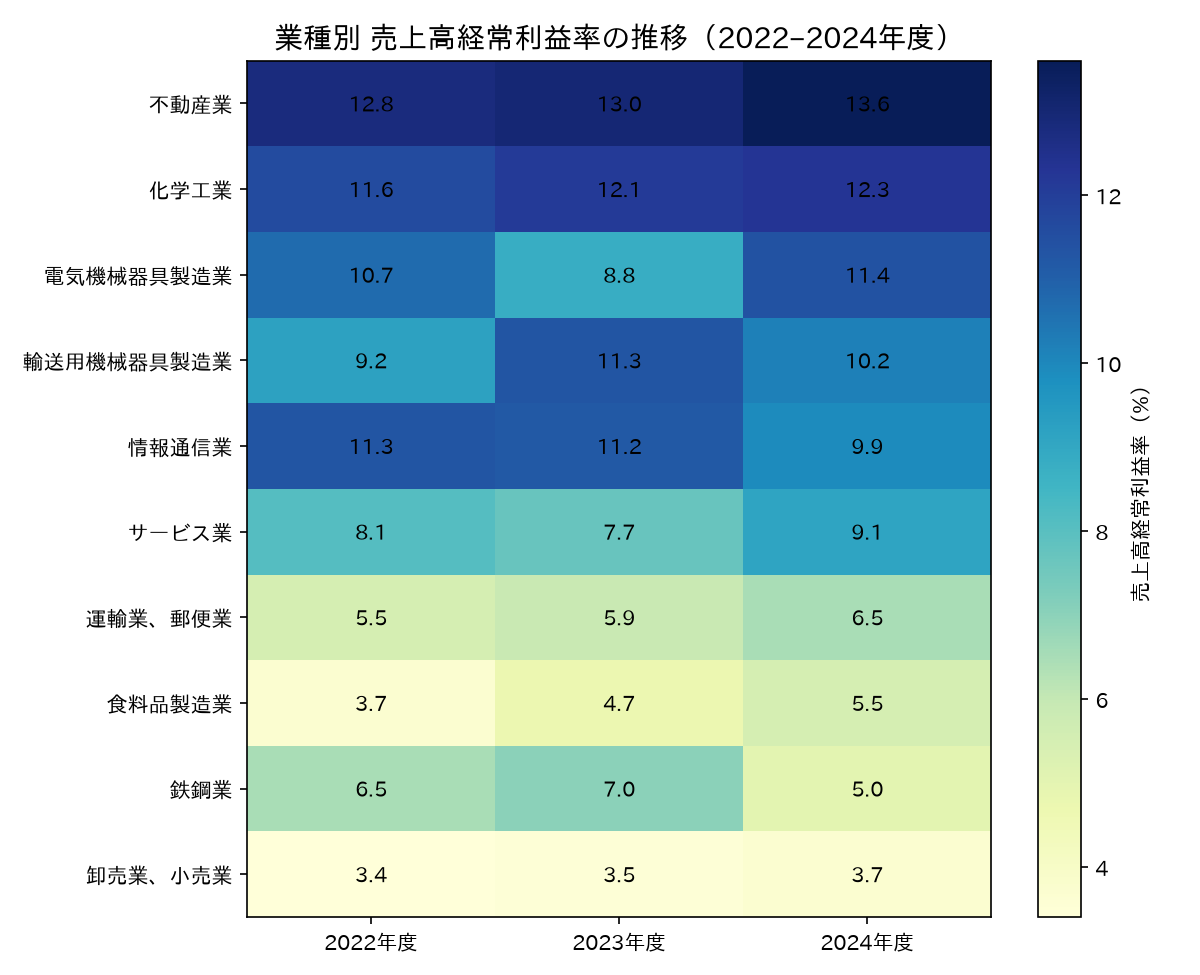
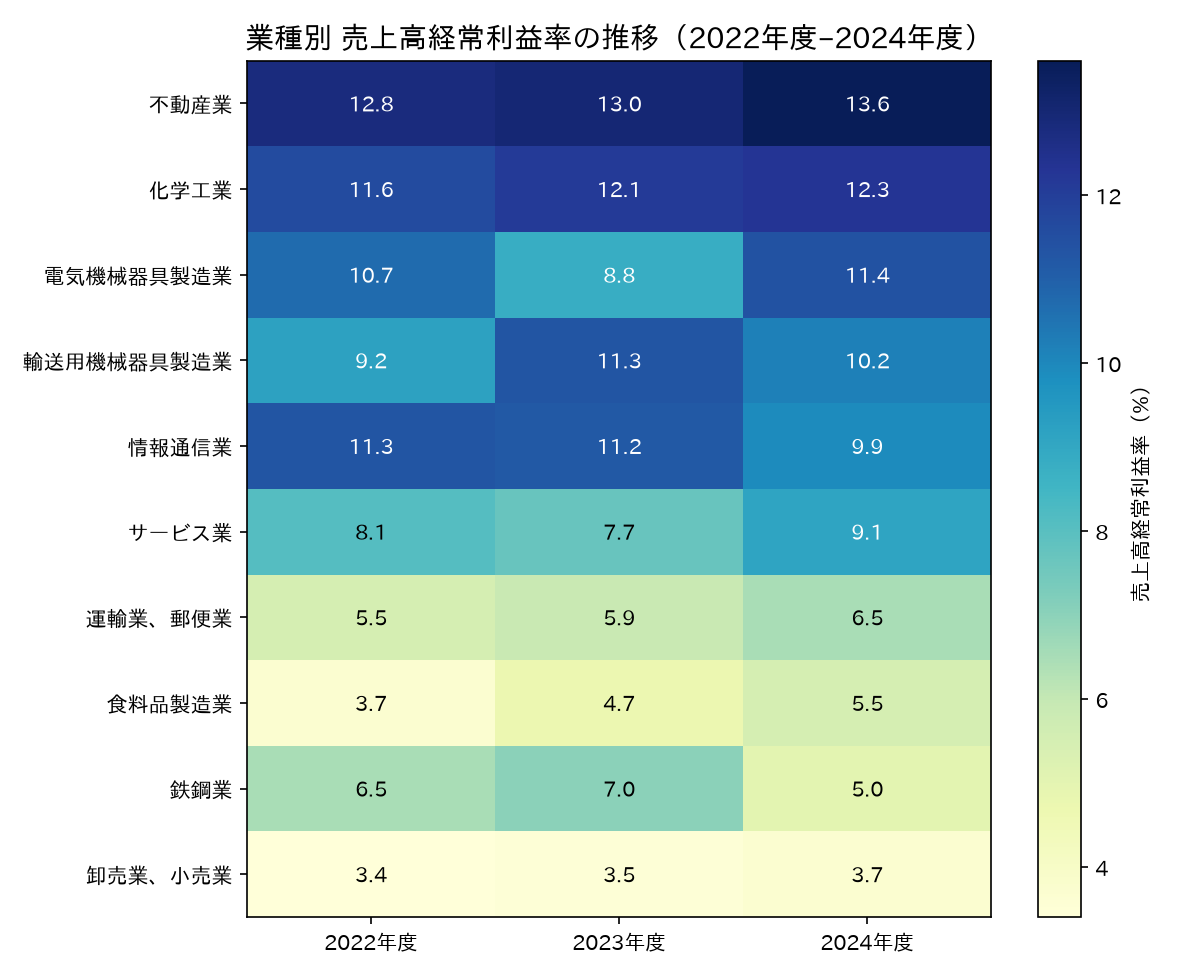
refactor: apply code review polish to plotting script

diff --git a/plot_profit_margins.py b/plot_profit_margins.py
@@ -47,7 +47,7 @@ IMAGES_DIR = Path("images")
 
 def build_dataframe() -> pd.DataFrame:
     rows = {
-        industry: dict(zip(YEARS, meta["values"])) | {"区分": meta["sector"]}
+        industry: dict(zip(YEARS, meta["values"], strict=True)) | {"区分": meta["sector"]}
         for industry, meta in DATA.items()
     }
     df = pd.DataFrame(rows).T
@@ -57,9 +57,9 @@ def build_dataframe() -> pd.DataFrame:
 
 def plot_ranking(df: pd.DataFrame, path: Path) -> None:
     fig, ax = plt.subplots(figsize=(10, 6))
-    colors = df["区分"].map(SECTOR_COLORS)
-    ax.barh(df.index[::-1], df[LATEST_YEAR][::-1], color=colors[::-1])
-    for y, value in enumerate(df[LATEST_YEAR][::-1]):
+    dfr = df.iloc[::-1]
+    ax.barh(dfr.index, dfr[LATEST_YEAR], color=dfr["区分"].map(SECTOR_COLORS))
+    for y, value in enumerate(dfr[LATEST_YEAR]):
         ax.text(value + 0.15, y, f"{value:.1f}%", va="center", fontsize=10)
     handles = [
         plt.Rectangle((0, 0), 1, 1, color=SECTOR_COLORS[s])
@@ -81,14 +81,16 @@ def plot_heatmap(df: pd.DataFrame, path: Path) -> None:
     im = ax.imshow(values, cmap="YlGnBu", aspect="auto")
     ax.set_xticks(range(len(YEARS)), YEARS)
     ax.set_yticks(range(len(df.index)), df.index)
+    threshold = (values.max() + values.min()) / 2
     for i in range(values.shape[0]):
         for j in range(values.shape[1]):
             ax.text(
                 j, i, f"{values[i, j]:.1f}",
                 ha="center", va="center", fontsize=10,
+                color="white" if values[i, j] > threshold else "black",
             )
     fig.colorbar(im, ax=ax, label="売上高経常利益率（%）")
-    ax.set_title("業種別 売上高経常利益率の推移（2022–2024年度）", fontsize=14)
+    ax.set_title(f"業種別 売上高経常利益率の推移（{YEARS[0]}–{YEARS[-1]}）", fontsize=14)
     fig.tight_layout()
     fig.savefig(path, dpi=150)
     plt.close(fig)
